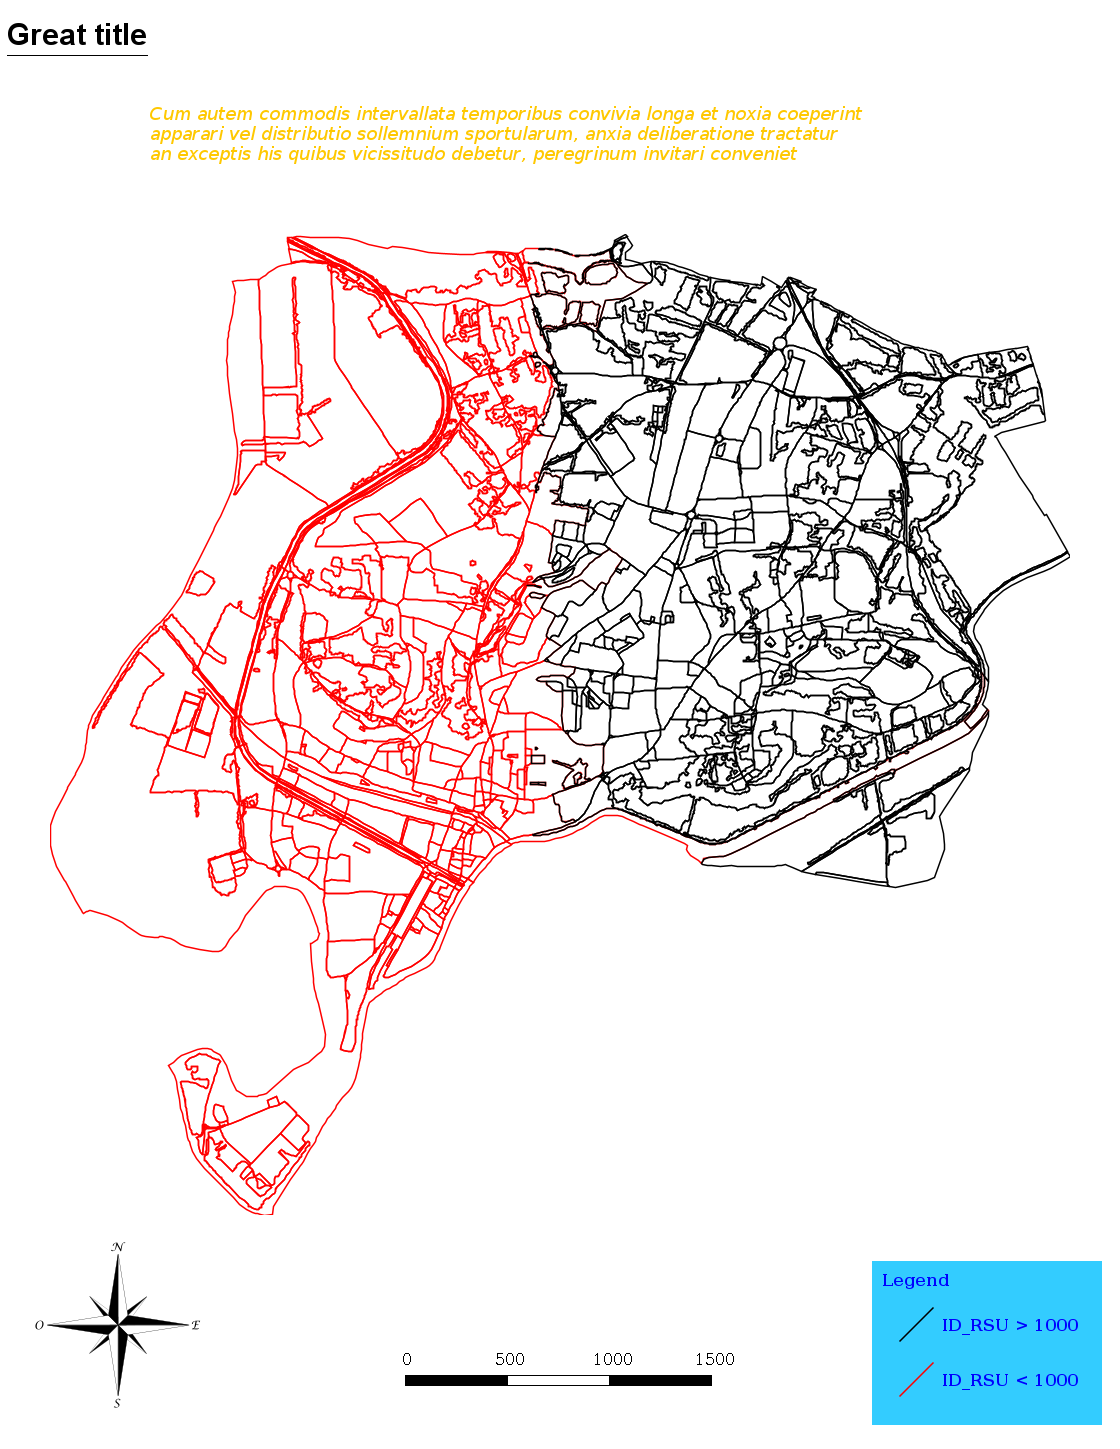
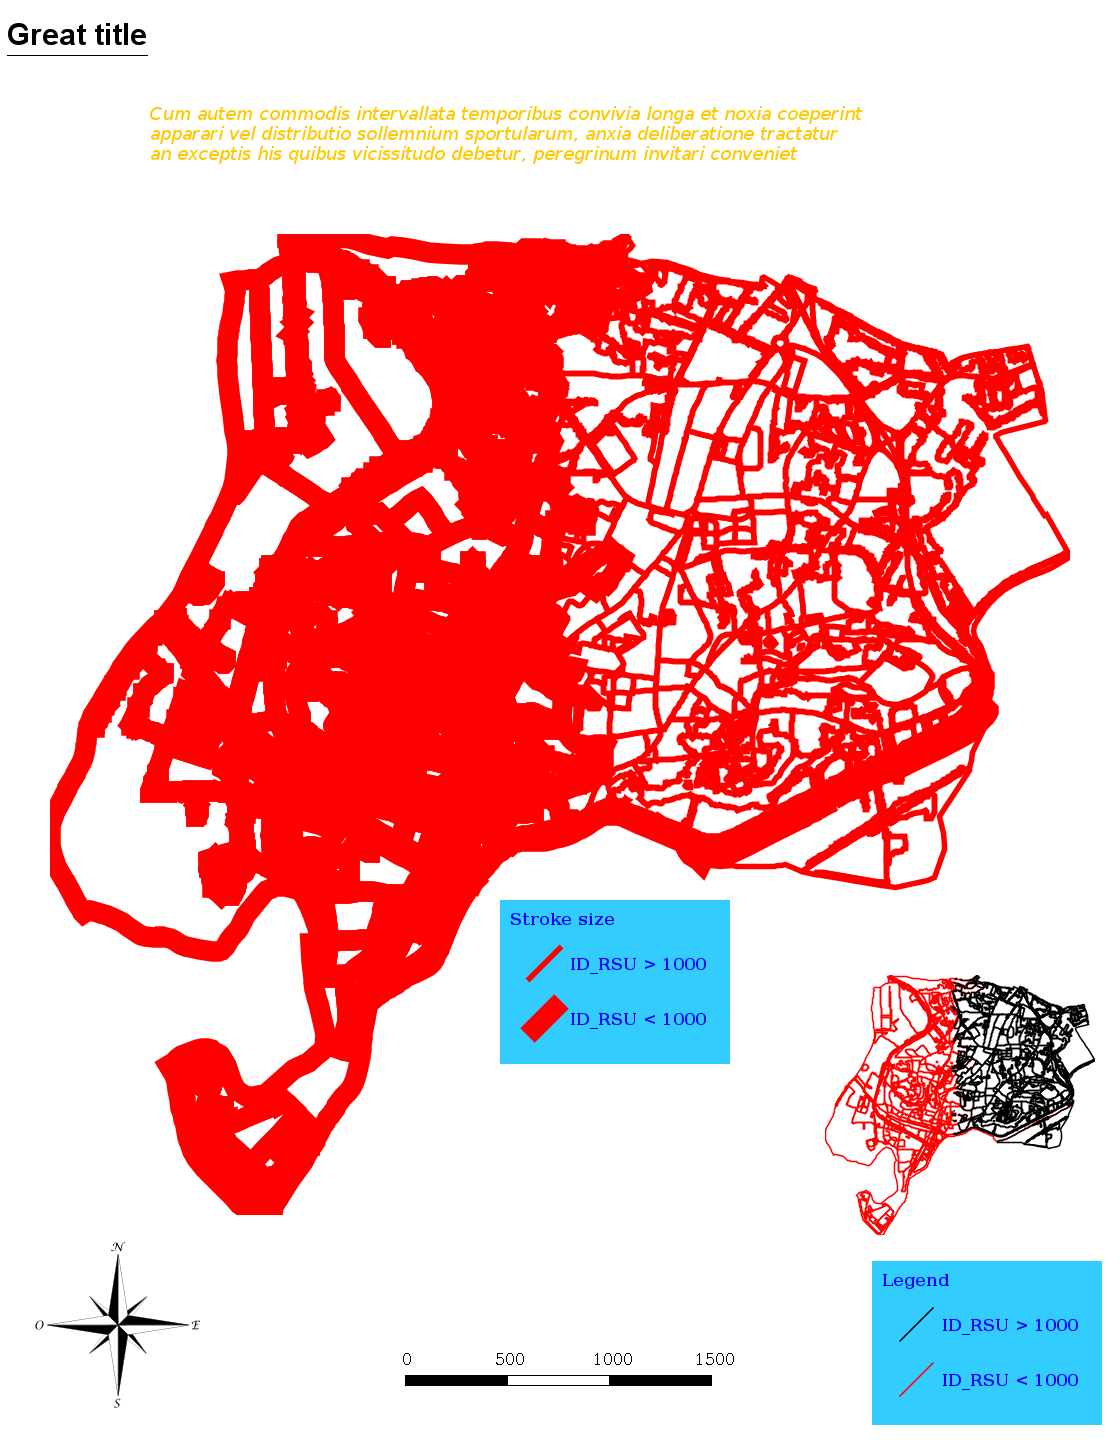
Can paint several maps on the same mapDocument

Changed region(s): [[0.0312, 0.1553, 0.9688, 0.8385], [0.75, 0.6522, 0.9688, 0.8696]]

diff --git a/src/main/java/org/legend/utils/JsonCartoReader.java b/src/main/java/org/legend/utils/JsonCartoReader.java
@@ -41,11 +41,8 @@ import java.util.List;
  */
 public class JsonCartoReader {
 
-    BufferedImage mapBufferedImage;
-    FeatureLayer layer;
     Graphics2D g;
     BaseFrame frame;
-    MapContent mapContent;
 
     /**
      * Read a json file describing map and decoration parameters, and build a map and its decorations.
@@ -55,39 +52,65 @@ public class JsonCartoReader {
 
         ObjectMapper mapper = new ObjectMapper();
 
-        JsonNode mapArrayNode = mapper.readTree(new File(jsonFilePath)).get("map");
-        this.layer = LayerUtils.buildLayer(mapArrayNode.findValue("layers").toString().replace("\"",""), mapArrayNode.findValue("sld").toString().replace("\"",""));
-        this.mapContent = new MapContent();
-        mapContent.addLayer(layer);
-        org.legend.model.MapItem modelMap = new org.legend.model.MapItem(mapContent);
-        this.mapBufferedImage = modelMap.paintMap();
+        JsonNode mapDocumentArrayNode = mapper.readTree(new File(jsonFilePath)).get("mapDocument");
         this.frame = new BaseFrame();
-        frame.setBaseFrameSize(mapBufferedImage, Integer.parseInt(mapArrayNode.findValue("margin").toString().replace("\"","")));
-        frame.setBufferedImage(mapArrayNode.findValue("landscape").toString().replace("\"",""));
-        this.g = frame.paintMapOnBaseFrame(mapArrayNode.findValue("position").toString().replace("\"",""));
+        JsonNode mapArrayNode = mapper.readTree(new File(jsonFilePath)).get("map");
+        int mapBufferedImageMaxWidth = 0;
+        int mapBufferedImageMaxHeight = 0;
+        for (JsonNode jsonNode : mapArrayNode) {
+            FeatureLayer layer = LayerUtils.buildLayer(jsonNode.get("layers").toString().replace("\"", ""), jsonNode.get("sld").toString().replace("\"", ""));
+            MapContent mapContent = new MapContent();
+            mapContent.addLayer(layer);
+            org.legend.model.MapItem modelMap = new org.legend.model.MapItem(mapContent);
+            BufferedImage mapBufferedImage = modelMap.paintMap(Integer.parseInt(jsonNode.get("size").toString().replace("\"", "")));
+            mapBufferedImageMaxWidth = java.lang.Math.max(mapBufferedImage.getWidth(), mapBufferedImageMaxWidth);
+            mapBufferedImageMaxHeight = java.lang.Math.max(mapBufferedImage.getHeight(), mapBufferedImageMaxHeight);
+            mapContent.dispose();
+        }
+        frame.setBaseFrameSize(mapBufferedImageMaxWidth, mapBufferedImageMaxHeight, Integer.parseInt(mapDocumentArrayNode.findValue("margin").toString().replace("\"", "")));
+        frame.setBufferedImage(mapDocumentArrayNode.findValue("landscape").toString().replace("\"", ""));
+
+        for (JsonNode jsonNode : mapArrayNode) {
+            FeatureLayer layer = LayerUtils.buildLayer(jsonNode.get("layers").toString().replace("\"", ""), jsonNode.get("sld").toString().replace("\"", ""));
+            MapContent mapContent = new MapContent();
+            mapContent.addLayer(layer);
+            org.legend.model.MapItem modelMap = new org.legend.model.MapItem(mapContent);
+            BufferedImage mapBufferedImage = modelMap.paintMap(Integer.parseInt(jsonNode.get("size").toString().replace("\"", "")));
+            this.g = frame.paintMapOnBaseFrame(jsonNode.findValue("position").toString().replace("[","").replace("]","").replace("\"", ""), mapBufferedImage, g);
+            mapContent.dispose();
+        }
 
         JsonNode legendArrayNode = mapper.readTree(new File(jsonFilePath)).get("legend");
         for (JsonNode jsonNode : legendArrayNode) {
             List<FeatureLayer> layerList = new ArrayList<>();
+            FeatureLayer layer = LayerUtils.buildLayer(jsonNode.get("layers").toString().replace("\"", ""), jsonNode.get("sld").toString().replace("\"", ""));
             layerList.add(layer);
             Map legendOptions = new HashMap<>();
             legendOptions.put("transparent", jsonNode.get("transparent").toString().replace("\"","")); // default is off
-            legendOptions.put("bgColor", jsonNode.get("bgColor").toString().replace("\"","")); // default is Color.WHITE;
+            Object bgColor;
+            if(!jsonNode.get("bgColor").toString().replace("\"","").contains("#")) {
+                Field bgColorField = Class.forName("java.awt.Color").getField(jsonNode.get("bgColor").toString().replace("\"", ""));
+                bgColor = bgColorField.get(null);
+            }else{
+                bgColor = jsonNode.get("bgColor").toString().replace("\"","");
+            }
+            legendOptions.put("bgColor", bgColor); // default is Color.WHITE;
             legendOptions.put("ruleLabelMargin", Integer.parseInt(jsonNode.get("ruleLabelMargin").toString().replace("\"",""))); //default is 3;
             legendOptions.put("verticalRuleMargin", Integer.parseInt(jsonNode.get("verticalRuleMargin").toString().replace("\"",""))); //default is 0;
             legendOptions.put("horizontalRuleMargin", Integer.parseInt(jsonNode.get("horizontalRuleMargin").toString().replace("\"",""))); //default is 0;
+            legendOptions.put("layout", jsonNode.get("layout").toString().replace("\"","")); //default is VERTICAL;
             legendOptions.put("verticalMarginBetweenLayers", Integer.parseInt(jsonNode.get("verticalMarginBetweenLayers").toString().replace("\"",""))); //default is 0;
             legendOptions.put("horizontalMarginBetweenLayers", Integer.parseInt(jsonNode.get("horizontalMarginBetweenLayers").toString().replace("\"",""))); //default is 0;
             legendOptions.put("fontName", jsonNode.get("fontName").toString().replace("\"","")); //default is "Sans-Serif"
             legendOptions.put("fontStyle", jsonNode.get("fontStyle").toString().replace("\"",""));
-            Field field = Class.forName("java.awt.Color").getField(jsonNode.get("fontColor").toString().replace("\"",""));
-            Color color = (Color) field.get(null);
-            legendOptions.put("fontColor", color); // default is Color.BLACK;
+            Field fontColorField = Class.forName("java.awt.Color").getField(jsonNode.get("fontColor").toString().replace("\"",""));
+            Color fontColor = (Color) fontColorField.get(null);
+            legendOptions.put("fontColor", fontColor); // default is Color.BLACK;
             legendOptions.put("fontSize", jsonNode.get("fontSize").toString().replace("\"","")); // default is 12;
             BufferedImageLegendGraphicBuilder builder = new BufferedImageLegendGraphicBuilder();
             BufferedImage legendBufferedImage = builder.buildLegendGraphic(layerList, legendOptions);
             Legend modelLegend = new Legend();
-            modelLegend.setPosition(jsonNode.get("position").toString().replace("\"",""), frame.getImgWidth(), frame.getImgHeight(), legendBufferedImage);
+            modelLegend.setPosition(jsonNode.get("position").toString().replace("[","").replace("]","").replace("\"",""), frame.getImgWidth(), frame.getImgHeight(), legendBufferedImage);
             g.drawImage(legendBufferedImage, modelLegend.getPositionX(), modelLegend.getPositionY(), null);
         }
 
@@ -114,12 +137,16 @@ public class JsonCartoReader {
 
         JsonNode scaleArrayNode = mapper.readTree(new File(jsonFilePath)).get("scale");
         for (JsonNode jsonNode : scaleArrayNode) {
+            FeatureLayer layer = LayerUtils.buildLayer(jsonNode.get("layers").toString().replace("\"", ""), mapArrayNode.findValue("sld").toString().replace("\"", ""));
+            MapContent mapContent = new MapContent();
+            mapContent.addLayer(layer);
             Scale mapScale = new Scale(mapContent, frame.getImgWidth());
             mapScale.setStrokeWidth(Integer.parseInt(jsonNode.get("strokeWidth").toString().replace("\"","")));
             mapScale.setFont(new Font(jsonNode.get("fontName").toString().replace("\"",""), setFontStyle(jsonNode.get("fontStyle").toString().replace("\"","")), Integer.parseInt(jsonNode.get("fontSize").toString().replace("\"",""))));
             BufferedImage scaleBufferedImage = mapScale.paintMapScale(jsonNode.get("bars").toString().replace("\"",""));
             mapScale.setPosition(jsonNode.get("position").toString().replace("\"",""), frame.getImgWidth(), frame.getImgHeight(), scaleBufferedImage);
             g.drawImage(scaleBufferedImage, mapScale.getPositionX(), mapScale.getPositionY(), null);
+            mapContent.dispose();
         }
         g.dispose();
         JsonNode outputArrayNode = mapper.readTree(new File(jsonFilePath)).get("output");

diff --git a/src/main/java/org/legend/model/BaseFrame.java b/src/main/java/org/legend/model/BaseFrame.java
@@ -30,7 +30,6 @@ import java.awt.image.BufferedImage;
  */
 public class BaseFrame {
 
-    BufferedImage mapImage;
     int imgWidth;
     int imgHeight;
     private int margin;
@@ -38,13 +37,13 @@ public class BaseFrame {
 
     /**
      * Set the size of the base image.
-     * @param mapImage the map image
+     * @param minWidth the minimal width
+     * @param minHeight the minimal height
      * @param margin the margin
      */
-    public void setBaseFrameSize(BufferedImage mapImage, int margin) {
-        this.mapImage = mapImage;
-        this.imgWidth = mapImage.getWidth() + margin;
-        this.imgHeight = mapImage.getHeight() + margin;
+    public void setBaseFrameSize(int minWidth, int minHeight, int margin) {
+        this.imgWidth = minWidth + margin;
+        this.imgHeight = minHeight + margin;
         this.margin = margin;
     }
 
@@ -111,10 +110,12 @@ public class BaseFrame {
      * @param position the position (can be absolute position like "[40:10]")
      * @return the graphics2D
      */
-    public Graphics2D paintMapOnBaseFrame(String position) {
-        Graphics2D g = (Graphics2D) baseFrameBufferedImage.getGraphics();
-        g.setPaint(Color.WHITE);
-        g.fillRect(0,0, imgWidth, imgHeight);
+    public Graphics2D paintMapOnBaseFrame(String position, BufferedImage mapImage, Graphics2D g) {
+        if (g == null) {
+            g = (Graphics2D) baseFrameBufferedImage.getGraphics();
+            g.setPaint(Color.WHITE);
+            g.fillRect(0, 0, imgWidth, imgHeight);
+        }
         if(margin>0) {
             switch (position) {
                 case "bottom":

diff --git a/src/test/java/org/legend/imageBuilder/BufferedImageLegendGraphicBuilderTest.java b/src/test/java/org/legend/imageBuilder/BufferedImageLegendGraphicBuilderTest.java
@@ -228,14 +228,14 @@ public class BufferedImageLegendGraphicBuilderTest extends TestCase {
         MapContent map = new MapContent();
         map.addLayer(layer);
         org.legend.model.MapItem modelMap = new org.legend.model.MapItem(map);
-        BufferedImage mapBufferedImage = modelMap.paintMap();
+        BufferedImage mapBufferedImage = modelMap.paintMap(1000);
         ImageIO.write(mapBufferedImage, "png", new FileOutputStream("data/legend/building_map.png"));
 
         // create the base frame and paint the map on it
         BaseFrame frame = new BaseFrame();
-        frame.setBaseFrameSize(mapBufferedImage,100);
+        frame.setBaseFrameSize(mapBufferedImage.getWidth(), mapBufferedImage.getHeight(), 100);
         frame.setBufferedImage("LETTER_PORTRAIT");
-        Graphics2D g = frame.paintMapOnBaseFrame("center");
+        Graphics2D g = frame.paintMapOnBaseFrame("center", mapBufferedImage, null);
 
         // create the bufferedImage for the legend
         List<FeatureLayer> layerList = new ArrayList<>();

diff --git a/src/main/java/org/legend/model/MapItem.java b/src/main/java/org/legend/model/MapItem.java
@@ -48,7 +48,7 @@ public class MapItem {
      * Paint a map and return a buffered image
      * @return the buffered image
      */
-    public BufferedImage paintMap(){
+    public BufferedImage paintMap(int size){
         GTRenderer renderer = new StreamingRenderer();
         RenderingHints hints = new RenderingHints(RenderingHints.KEY_ANTIALIASING, RenderingHints.VALUE_ANTIALIAS_ON);
         hints.add(new RenderingHints(RenderingHints.KEY_TEXT_ANTIALIASING, RenderingHints.VALUE_TEXT_ANTIALIAS_ON));
@@ -68,7 +68,7 @@ public class MapItem {
         try {
             mapBounds = map.getMaxBounds();
             double heightToWidth = mapBounds.getSpan(1) / mapBounds.getSpan(0);
-            imageBounds = new Rectangle(0, 0, 1000 + 20, (int) Math.round(1000 * heightToWidth) + 20);
+            imageBounds = new Rectangle(0, 0, size + 20, (int) Math.round(size * heightToWidth) + 20);
         } catch (Exception e) {
             // failed to access map layers
             throw new RuntimeException(e);
